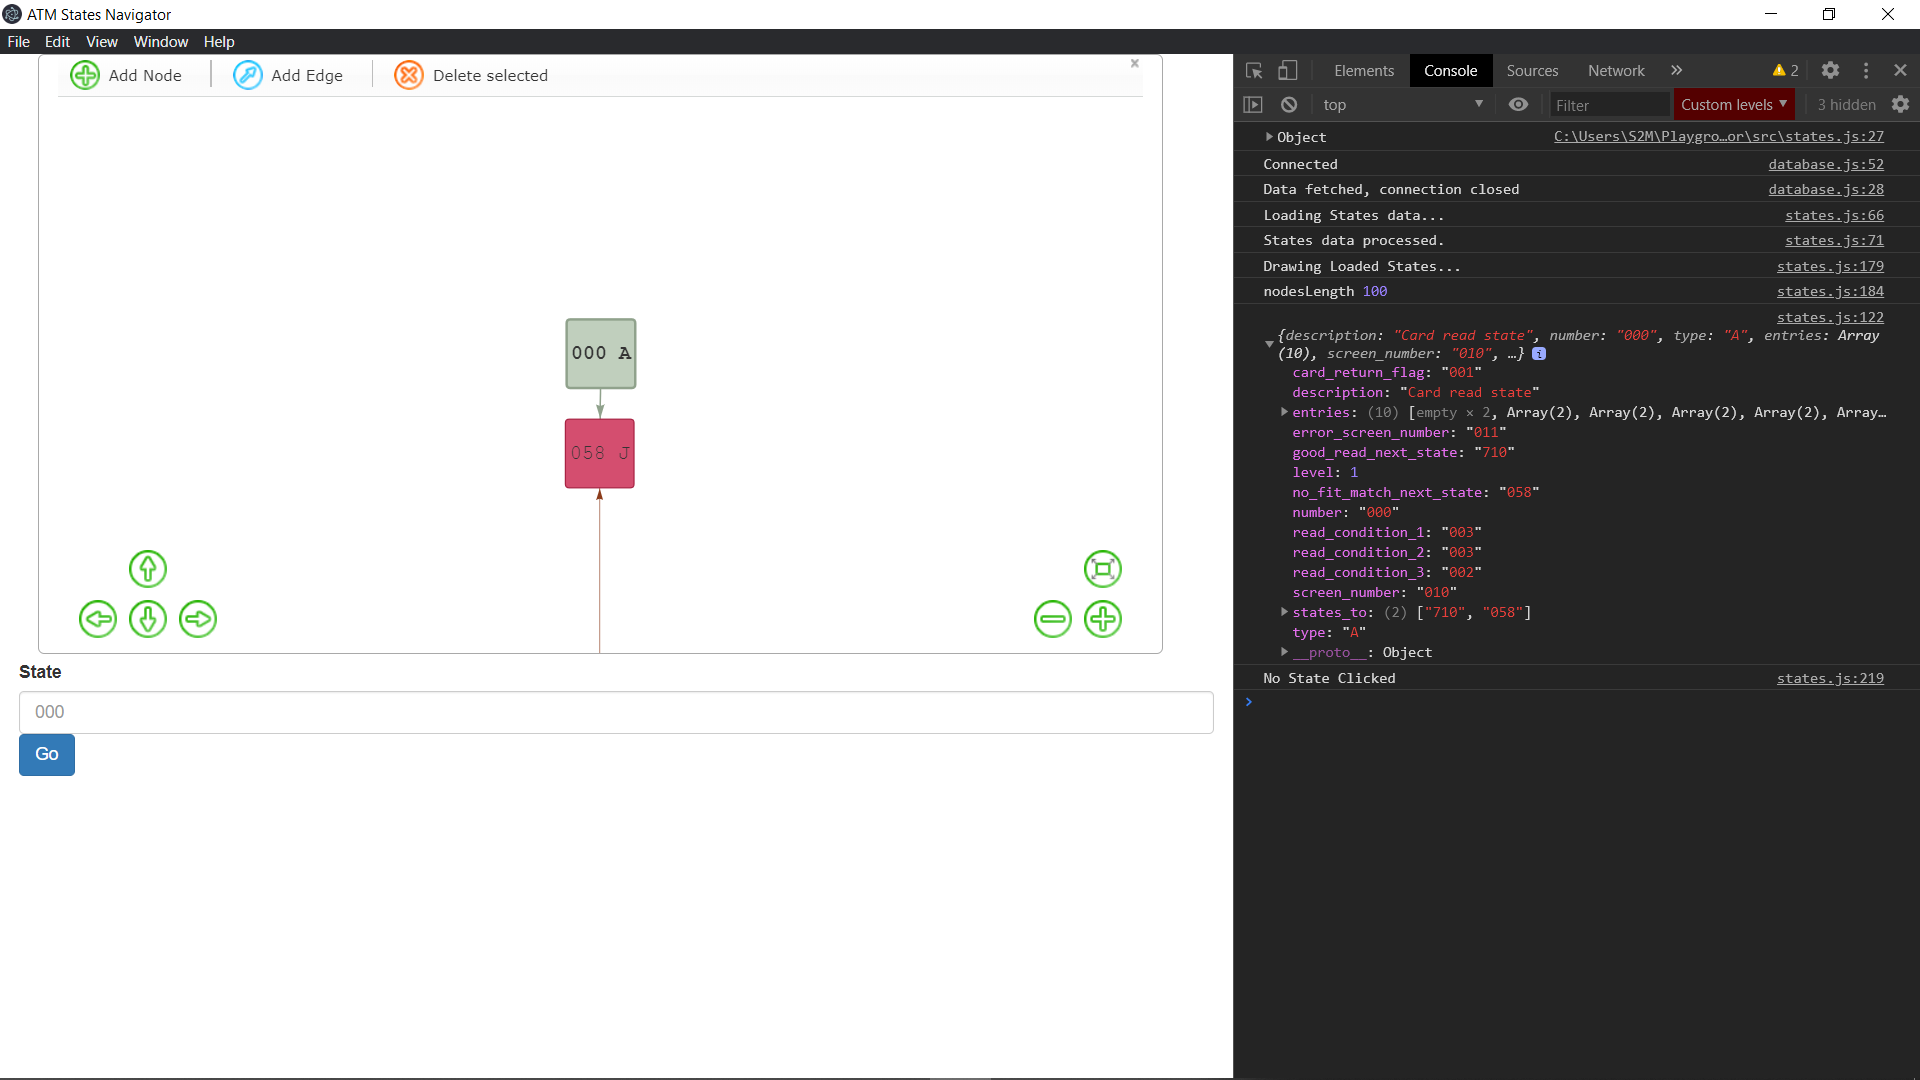
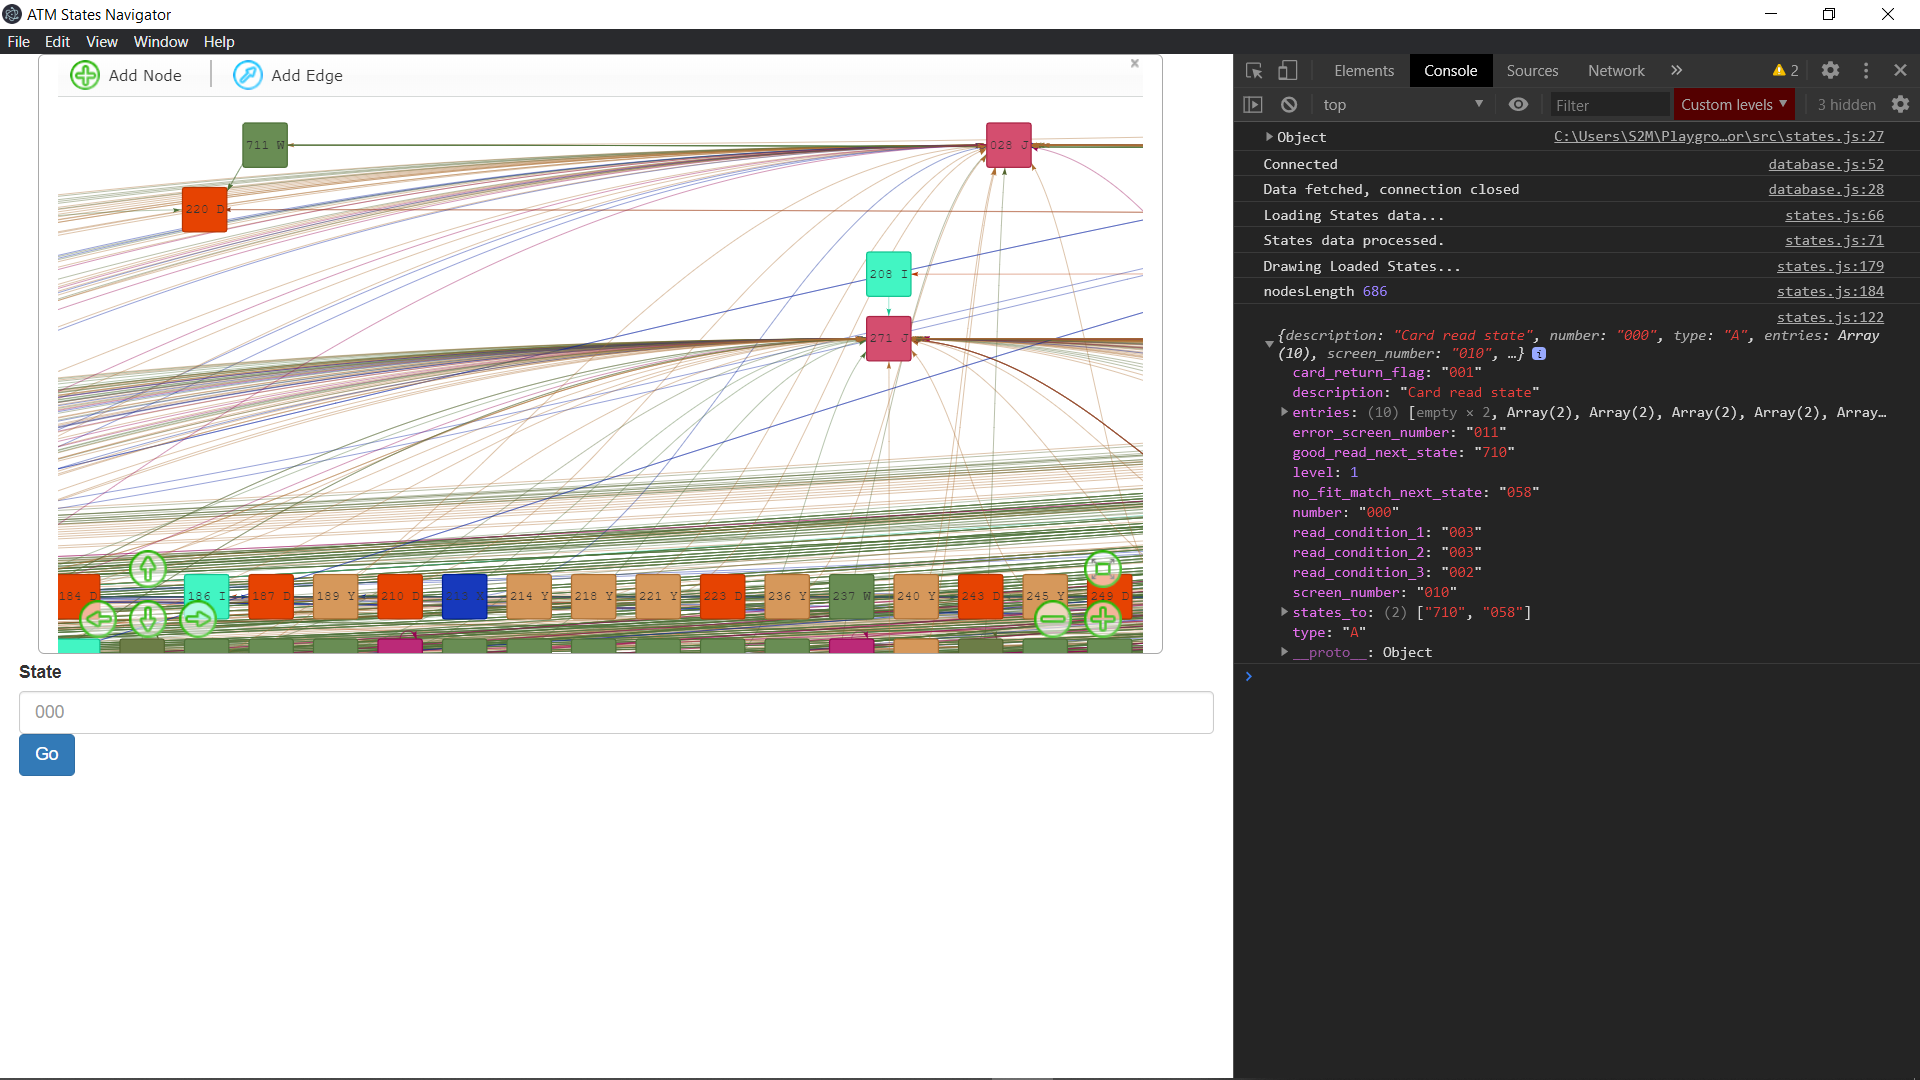
update img home-section

diff --git a/src/database.js b/src/database.js
@@ -63,7 +63,7 @@ class Database {
                  "ASV_VALU_PAR8 " +
           "FROM sys.atm_states_values, sys.atm_states_type " +
           "WHERE ASV_SCO_CODE = :config and "+
-          "ASV_AST_CODE = AST_CODE AND ASV_NUMB <=100",
+          "ASV_AST_CODE = AST_CODE AND ASV_NUMB <=999",
           [config],
           {
             resultSet: true, // return a result set.  Default is false
@@ -86,4 +86,4 @@ class Database {
 }
 
 const db = new Database('SYSTEM', '123', 'localhost/XE');
-db.fetch('77');
+db.fetch('10');
